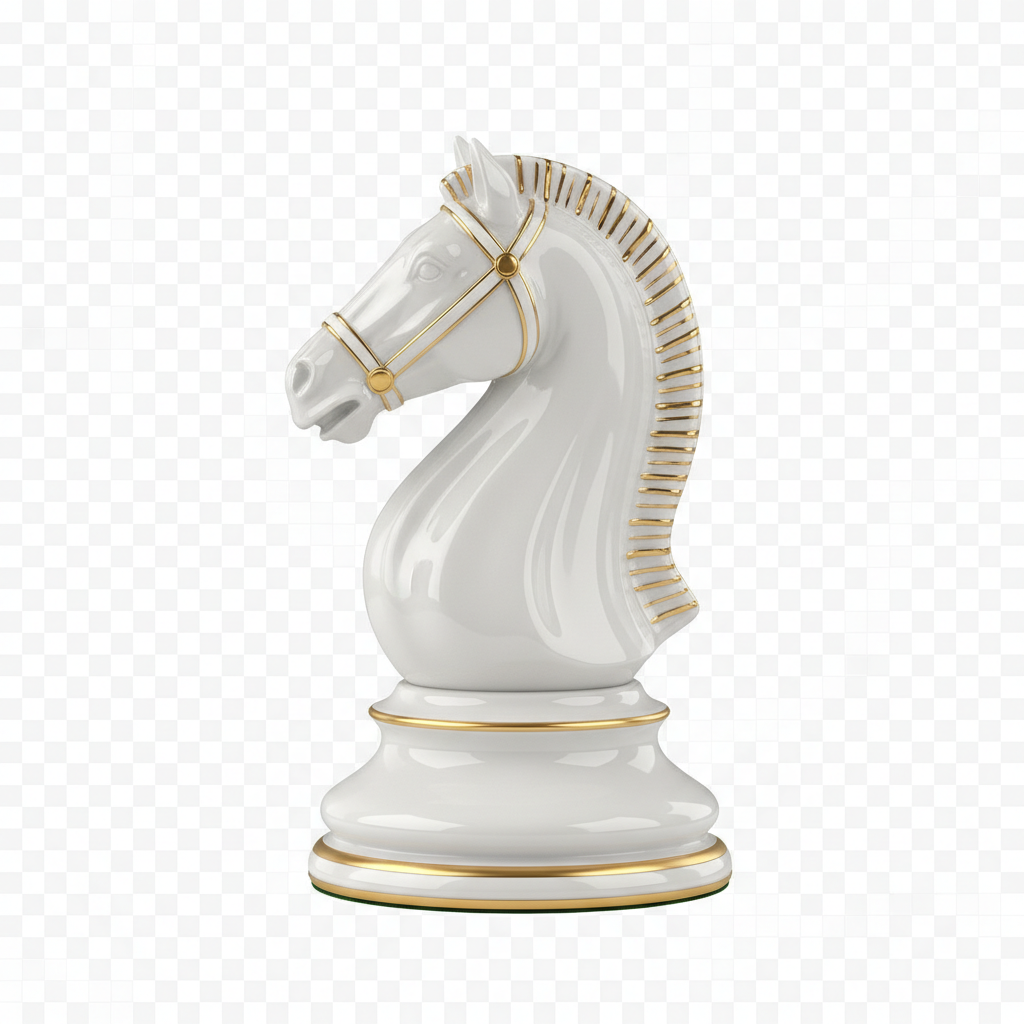
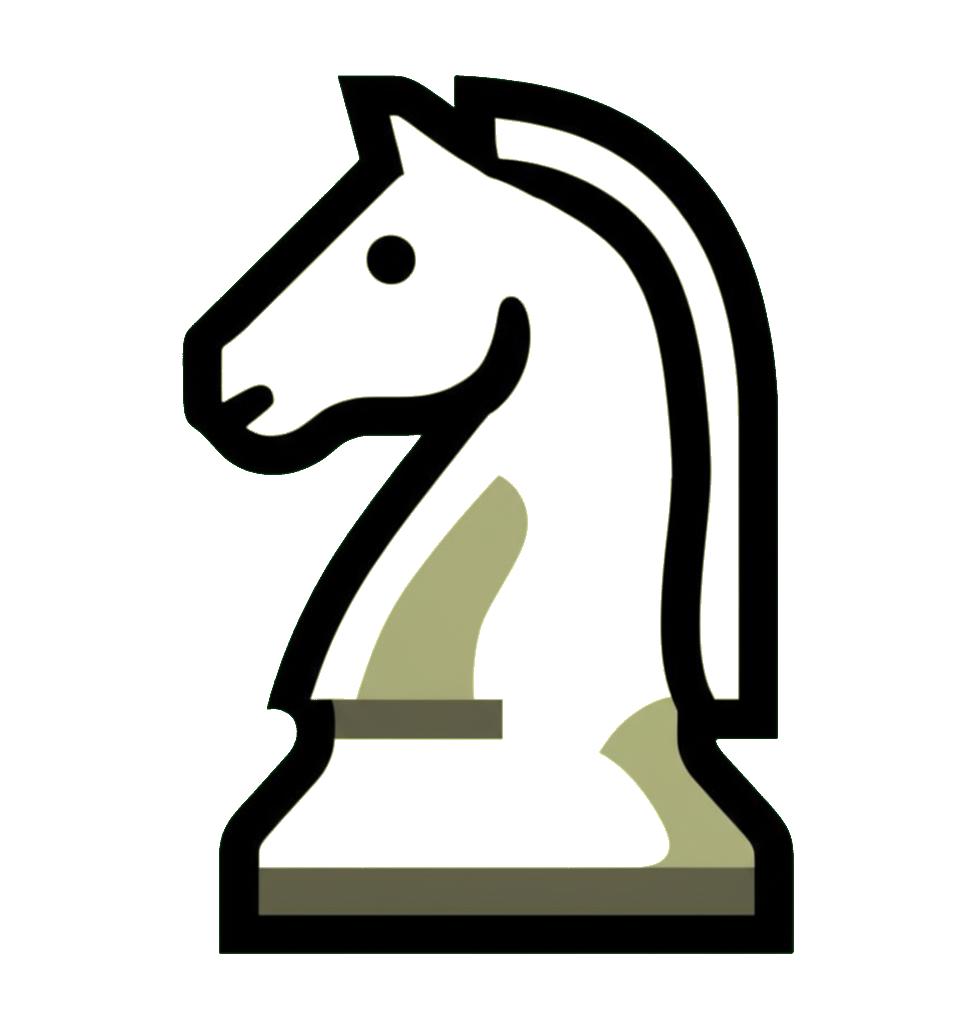
v1.1.0: updated piece assets, added generation scripts, improved gitignore

diff --git a/generate_pieces.py b/generate_pieces.py
@@ -1,0 +1,178 @@
+#!/usr/bin/env python3
+"""
+Generate all chess pieces using Gemini 3 Pro image generation.
+Generates white pieces, then recolors to black.
+Removes green chroma-key background to transparent PNG.
+"""
+
+import sys
+import os
+import json
+import base64
+import urllib.request
+import urllib.parse
+from PIL import Image
+import numpy as np
+import io
+import time
+
+API_KEY = os.environ.get("GEMINI_API_KEY") or sys.argv[1]
+OUTPUT_DIR = os.path.join(os.path.dirname(__file__), "public", "pieces")
+os.makedirs(OUTPUT_DIR, exist_ok=True)
+
+PIECES = {
+    "K": "King",
+    "Q": "Queen", 
+    "B": "Bishop",
+    "N": "Knight",
+    "R": "Rook",
+    "P": "Pawn",
+    "D": "Dragon",
+    "S": "Shadow (hooded cloaked figure)",
+}
+
+BASE_PROMPT = (
+    "A single {piece_name} chess piece in a cartoon style similar to chess.com's Neo piece set. "
+    "The piece is white/cream colored with clean outlines. Simple, bold, 2D cartoon style with subtle shading. "
+    "The piece should be centered, facing forward, on a solid bright green (#00FF00) background. "
+    "No text, no labels, no board, no other objects. Just the single piece."
+)
+
+def generate_piece(piece_code, piece_name):
+    """Generate a white piece image using Gemini."""
+    prompt = BASE_PROMPT.format(piece_name=piece_name)
+    
+    url = f"https://generativelanguage.googleapis.com/v1beta/models/gemini-2.0-flash-exp:generateContent?key={API_KEY}"
+    
+    payload = {
+        "contents": [{"parts": [{"text": prompt}]}],
+        "generationConfig": {
+            "responseModalities": ["TEXT", "IMAGE"]
+        }
+    }
+    
+    data = json.dumps(payload).encode("utf-8")
+    req = urllib.request.Request(url, data=data, headers={"Content-Type": "application/json"})
+    
+    print(f"  Generating {piece_name} ({piece_code})...")
+    resp = urllib.request.urlopen(req, timeout=60)
+    result = json.loads(resp.read().decode("utf-8"))
+    
+    # Extract image from response
+    for candidate in result.get("candidates", []):
+        for part in candidate.get("content", {}).get("parts", []):
+            if "inlineData" in part:
+                img_data = base64.b64decode(part["inlineData"]["data"])
+                return img_data
+    
+    raise Exception(f"No image in response for {piece_name}")
+
+
+def remove_green_bg(img_data):
+    """Remove green chroma-key background and make it transparent."""
+    img = Image.open(io.BytesIO(img_data)).convert("RGBA")
+    arr = np.array(img, dtype=np.float32)
+    
+    r, g, b, a = arr[:,:,0], arr[:,:,1], arr[:,:,2], arr[:,:,3]
+    
+    # Detect green: high green channel, low red and blue relative to green
+    green_mask = (g > 100) & (g > r * 1.3) & (g > b * 1.3)
+    
+    # Also catch lighter greens near edges
+    green_mask2 = (g > 150) & (g > r * 1.1) & (g > b * 1.1)
+    green_mask = green_mask | green_mask2
+    
+    arr[green_mask, 3] = 0  # Set alpha to 0 for green pixels
+    
+    result = Image.fromarray(arr.astype(np.uint8))
+    
+    # Crop to content
+    bbox = result.getbbox()
+    if bbox:
+        result = result.crop(bbox)
+    
+    # Resize to 256x256 with padding to keep aspect ratio
+    result.thumbnail((256, 256), Image.LANCZOS)
+    final = Image.new("RGBA", (256, 256), (0, 0, 0, 0))
+    offset = ((256 - result.width) // 2, (256 - result.height) // 2)
+    final.paste(result, offset)
+    
+    buf = io.BytesIO()
+    final.save(buf, format="PNG")
+    return buf.getvalue()
+
+
+def recolor_to_black(img_data):
+    """Recolor a white piece to a dark/black piece while preserving shape and shading."""
+    img = Image.open(io.BytesIO(img_data)).convert("RGBA")
+    arr = np.array(img, dtype=np.float32)
+    
+    r, g, b, a = arr[:,:,0], arr[:,:,1], arr[:,:,2], arr[:,:,3]
+    
+    # Only modify visible pixels (alpha > 0)
+    visible = a > 10
+    
+    # Invert the luminance: bright white becomes dark, shadows stay
+    # But keep it looking nice -- dark gray to black tones
+    if visible.any():
+        luminance = (0.299 * r + 0.587 * g + 0.114 * b)
+        
+        # Map: high luminance (white, ~255) -> dark (~40-60)
+        # Map: low luminance (shadows, ~0-50) -> very dark (~10-30)  
+        # Map: mid luminance (shading, ~128) -> mid-dark (~30-50)
+        new_lum = np.where(visible, 20 + (255 - luminance) * 0.15, luminance)
+        
+        # Preserve relative shading
+        scale = np.where(luminance > 1, new_lum / luminance, 1.0)
+        
+        arr[:,:,0] = np.where(visible, np.clip(r * scale, 0, 255), r)
+        arr[:,:,1] = np.where(visible, np.clip(g * scale, 0, 255), g)
+        arr[:,:,2] = np.where(visible, np.clip(b * scale, 0, 255), b)
+    
+    result = Image.fromarray(arr.astype(np.uint8))
+    buf = io.BytesIO()
+    result.save(buf, format="PNG")
+    return buf.getvalue()
+
+
+def main():
+    print("=== Chess 2 Piece Generator ===\n")
+    
+    # Check for Pillow
+    print("Generating 8 white pieces...\n")
+    
+    white_pieces = {}
+    for code, name in PIECES.items():
+        try:
+            raw_img = generate_piece(code, name)
+            clean_img = remove_green_bg(raw_img)
+            white_pieces[code] = clean_img
+            
+            # Save white piece
+            path = os.path.join(OUTPUT_DIR, f"w{code}.png")
+            with open(path, "wb") as f:
+                f.write(clean_img)
+            print(f"  Saved w{code}.png")
+            
+            time.sleep(1)  # Rate limit
+            
+        except Exception as e:
+            print(f"  ERROR generating {name}: {e}")
+    
+    print("\nRecoloring to black pieces...\n")
+    
+    for code, img_data in white_pieces.items():
+        try:
+            black_img = recolor_to_black(img_data)
+            path = os.path.join(OUTPUT_DIR, f"b{code}.png")
+            with open(path, "wb") as f:
+                f.write(black_img)
+            print(f"  Saved b{code}.png")
+        except Exception as e:
+            print(f"  ERROR recoloring {code}: {e}")
+    
+    print(f"\nDone! All pieces saved to {OUTPUT_DIR}")
+
+
+if __name__ == "__main__":
+    main()

diff --git a/gen_piece.py b/gen_piece.py
@@ -1,0 +1,113 @@
+#!/usr/bin/env python3
+"""Generate a chess piece image using Gemini imagen, then chroma-key green to transparent."""
+
+import sys
+import os
+import json
+import base64
+import urllib.request
+import urllib.parse
+from PIL import Image
+import io
+import numpy as np
+
+API_KEY = os.environ.get("GEMINI_API_KEY")
+if not API_KEY:
+    print("Set GEMINI_API_KEY env var")
+    sys.exit(1)
+
+def generate_piece(piece_name, color, output_path):
+    """Generate a single chess piece image with transparent background."""
+    
+    color_word = "white" if color == "w" else "black"
+    
+    # Special pieces
+    piece_names = {
+        "K": "King",
+        "Q": "Queen", 
+        "R": "Rook",
+        "B": "Bishop",
+        "N": "Knight",
+        "P": "Pawn",
+        "D": "Dragon",
+        "S": "Shadow"
+    }
+    
+    name = piece_names.get(piece_name, piece_name)
+    
+    prompt = (
+        f"A single {color_word} {name} chess piece in a flat cartoon style similar to chess.com's Neo piece set. "
+        f"Clean vector-like illustration with bold outlines, simple shading, and a playful but recognizable design. "
+        f"The piece should be centered and facing forward. "
+        f"The background must be solid bright green (#00FF00) with absolutely nothing else. "
+        f"No shadows on the background, no gradients, no board, no other objects. Just the piece on pure green."
+    )
+    
+    url = f"https://generativelanguage.googleapis.com/v1beta/models/gemini-2.0-flash-exp:generateContent?key={API_KEY}"
+    
+    payload = {
+        "contents": [{
+            "parts": [{"text": prompt}]
+        }],
+        "generationConfig": {
+            "responseModalities": ["TEXT", "IMAGE"]
+        }
+    }
+    
+    data = json.dumps(payload).encode("utf-8")
+    req = urllib.request.Request(url, data=data, headers={"Content-Type": "application/json"})
+    
+    print(f"Generating {color_word} {name}...")
+    resp = urllib.request.urlopen(req, timeout=60)
+    result = json.loads(resp.read())
+    
+    # Extract image
+    for part in result["candidates"][0]["content"]["parts"]:
+        if "inlineData" in part:
+            img_data = base64.b64decode(part["inlineData"]["data"])
+            
+            # Open and chroma-key
+            img = Image.open(io.BytesIO(img_data)).convert("RGBA")
+            arr = np.array(img)
+            
+            # Green screen removal: find pixels close to #00FF00
+            r, g, b, a = arr[:,:,0], arr[:,:,1], arr[:,:,2], arr[:,:,3]
+            green_mask = (g > 150) & (r < 100) & (b < 100)
+            
+            # Also catch lighter greens
+            green_mask2 = (g > 180) & (r < 130) & (b < 130) & (g > r + 50) & (g > b + 50)
+            mask = green_mask | green_mask2
+            
+            arr[mask] = [0, 0, 0, 0]
+            
+            result_img = Image.fromarray(arr)
+            
+            # Resize to 512x512 for web
+            result_img = result_img.resize((512, 512), Image.LANCZOS)
+            
+            result_img.save(output_path, "PNG")
+            print(f"Saved: {output_path}")
+            return True
+    
+    print("No image in response!")
+    return False
+
+
+if __name__ == "__main__":
+    mode = sys.argv[1] if len(sys.argv) > 1 else "sample"
+    
+    if mode == "sample":
+        generate_piece("K", "w", "/Users/arslnb/Desktop/sample_wK.png")
+        print("Sample saved to ~/Desktop/sample_wK.png")
+    elif mode == "all":
+        pieces_dir = "/Users/arslnb/Desktop/Chess2/online/public/pieces"
+        pieces = ["K", "Q", "R", "B", "N", "P", "D", "S"]
+        colors = ["w", "b"]
+        for c in colors:
+            for p in pieces:
+                out = os.path.join(pieces_dir, f"{c}{p}.png")
+                try:
+                    generate_piece(p, c, out)
+                except Exception as e:
+                    print(f"Error generating {c}{p}: {e}")
+        print("All pieces generated!")
